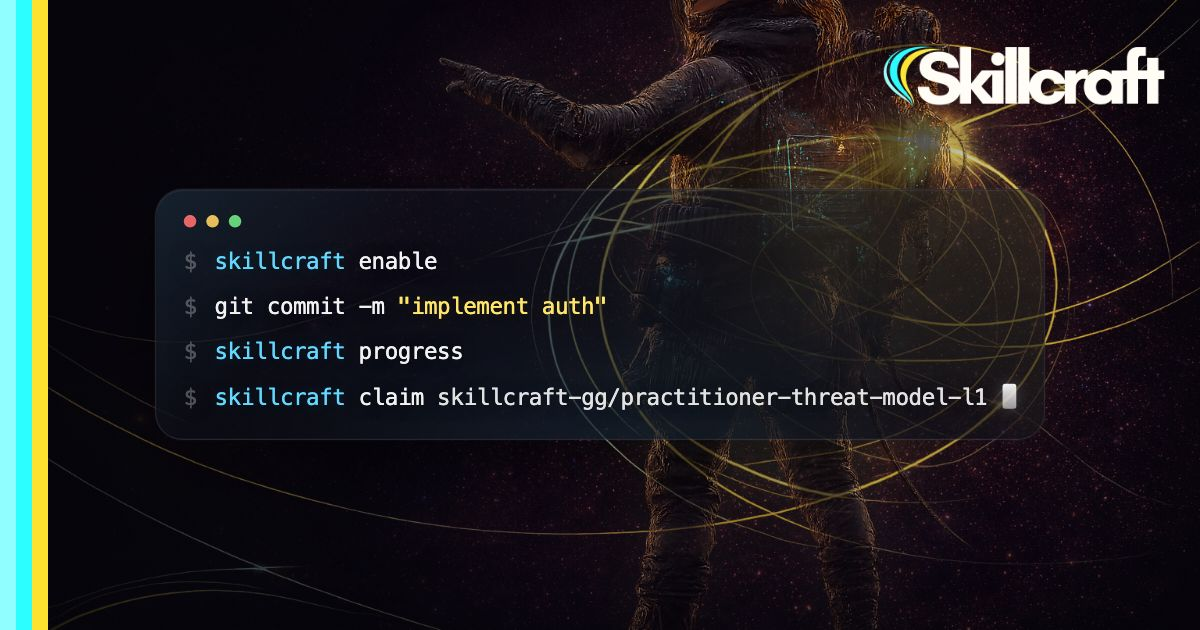
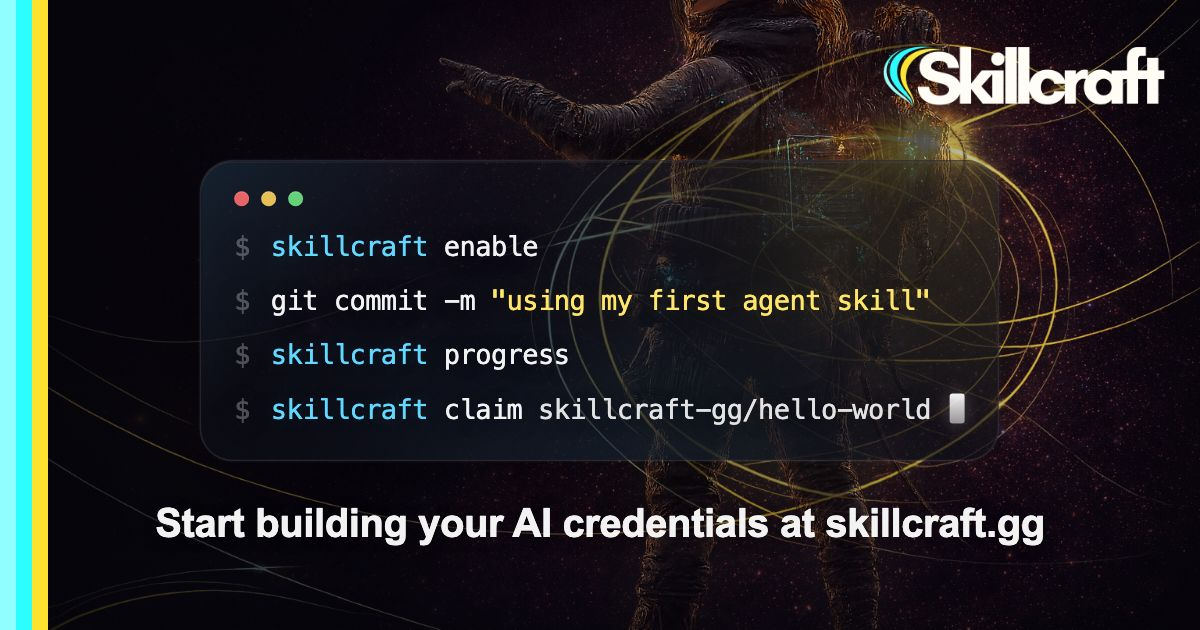
optimise metadata

diff --git a/app/layout.tsx b/app/layout.tsx
@@ -31,8 +31,9 @@ export const metadata: Metadata = {
   openGraph: {
     type: 'website',
     siteName: 'Skillcraft',
-    title: 'Skillcraft',
-    description: SITE_DESCRIPTION,
+    title: 'Skillcraft: Turn your work into verifiable AI credentials',
+    description:
+      'Capture what you build, share your progress, and earn verifiable credentials that prove measurable real-world AI engineering work.',
     url: 'https://skillcraft.gg',
     images: [
       {
@@ -45,8 +46,9 @@ export const metadata: Metadata = {
   },
   twitter: {
     card: 'summary_large_image',
-    title: 'Skillcraft',
-    description: SITE_DESCRIPTION,
+    title: 'Skillcraft: Turn your work into verifiable AI credentials',
+    description:
+      'Capture what you build, share your progress, and earn verifiable credentials that prove measurable real-world AI engineering work.',
     images: ['/images/og-home.jpg'],
   },
   icons: {

diff --git a/scripts/generate-og-home.py b/scripts/generate-og-home.py
@@ -26,6 +26,8 @@ OUTPUT_JPG_NAME = 'og-home.jpg'
 OUTPUT_PNG = PUBLIC_IMAGES_DIR / OUTPUT_PNG_NAME
 OUTPUT_JPG = PUBLIC_IMAGES_DIR / OUTPUT_JPG_NAME
 
+OG_CTA_TEXT = 'Start building your AI credentials at skillcraft.gg'
+
 BG_PATH = PUBLIC_IMAGES_DIR / 'bg.png'
 SWIRLS_PATH = PUBLIC_IMAGES_DIR / 'swirls.png'
 CHAR_PATH = PUBLIC_IMAGES_DIR / 'charf.png'
@@ -175,8 +177,11 @@ FINAL_HTML = '''
       inset: 0;
       z-index: 4;
       display: flex;
+      flex-direction: column;
       align-items: center;
-      justify-content: center;
+      justify-content: flex-start;
+      padding-top: 210px;
+      gap: 90px;
       pointer-events: none;
     }
 
@@ -194,8 +199,19 @@ FINAL_HTML = '''
       overflow: hidden;
       font-family: 'JetBrains Mono', ui-monospace, SFMono-Regular, Menlo, Consolas, monospace;
       position: relative;
-      transform: scale(1.25);
+      transform: scale(1.5);
       transform-origin: center;
+    }
+
+    .cta {
+      position: relative;
+      color: rgba(255, 255, 255, 0.95);
+      font-size: 40px;
+      letter-spacing: -0.01em;
+      text-align: center;
+      text-shadow: 0 2px 14px rgba(0, 0, 0, 0.35);
+      font-weight: 600;
+      white-space: nowrap;
     }
 
     .terminal::before {
@@ -331,7 +347,7 @@ FINAL_HTML = '''
           <div class="line">
             <span class="prompt">$</span>
             <span>
-              <span class="arg">git commit -m</span> <span class="str">\"implement auth\"</span>
+              <span class="arg">git commit -m</span> <span class="str">\"using my first agent skill\"</span>
             </span>
           </div>
           <div class="line">
@@ -343,12 +359,14 @@ FINAL_HTML = '''
           <div class="line">
             <span class="prompt">$</span>
             <span>
-              <span class="cmd">skillcraft</span> <span class="arg">claim</span> <span class="path">skillcraft-gg/practitioner-threat-model-l1</span>
+              <span class="cmd">skillcraft</span> <span class="arg">claim</span> <span class="path">skillcraft-gg/hello-world</span>
               <span class="cursor" aria-hidden="true"></span>
             </span>
           </div>
         </div>
       </section>
+
+      <div class="cta">__CTA__</div>
     </div>
   </div>
 </body>
@@ -363,6 +381,7 @@ def _fill_template(template: str, bg_url: str, swirls_url: str, char_url: str, l
         '__CHAR__': char_url,
         '__LOGO__': logo_url,
         '{width}': str(WIDTH),
+        '__CTA__': OG_CTA_TEXT,
     }
 
     html = template
